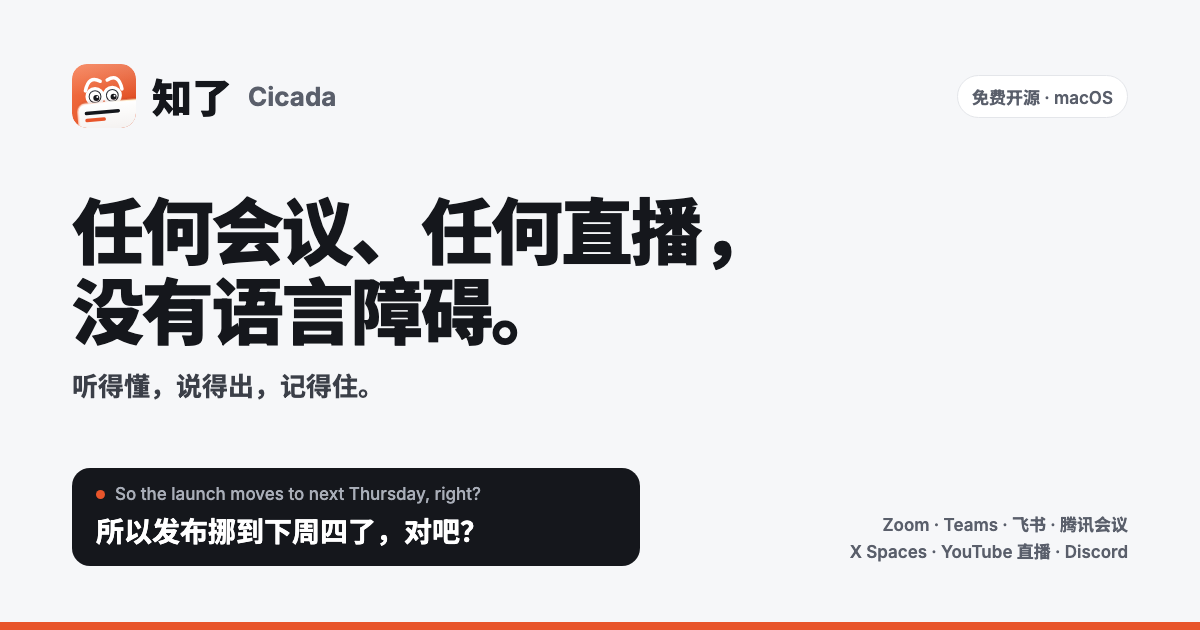
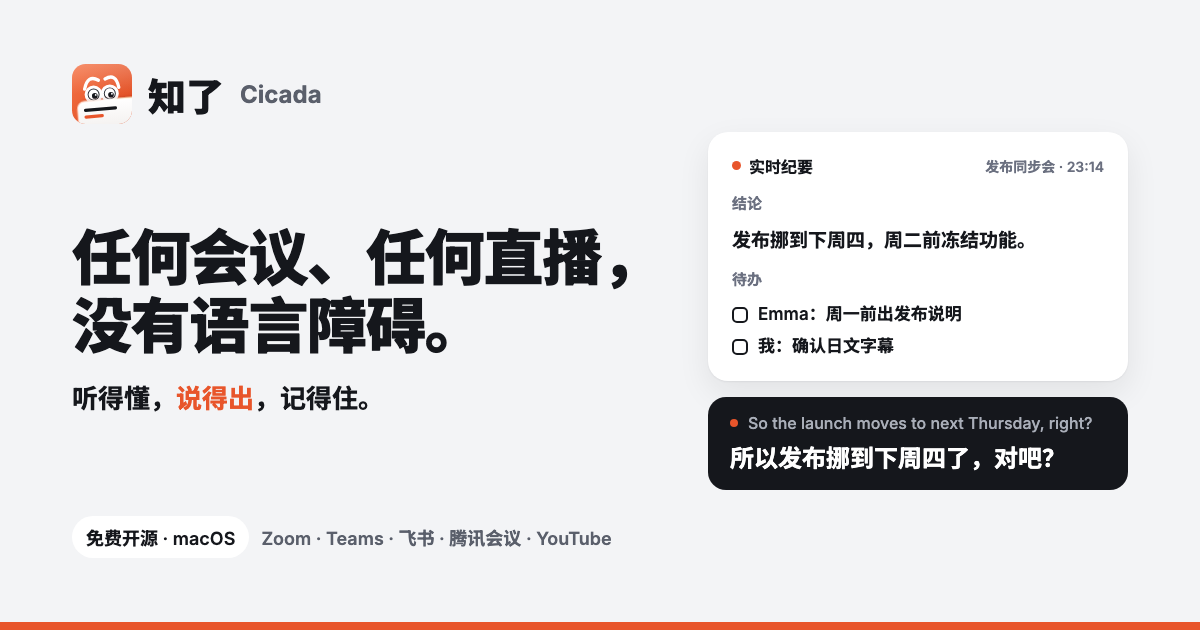
feat(site): Show the share card in the page's language when a link is shared

diff --git a/scripts/site-og.html b/scripts/site-og.html
@@ -1,37 +1,98 @@
 <!doctype html>
-<!-- The website's share card (site/og.png, 1200×630). Rendered by scripts/site-images.sh. -->
+<!-- The website's share cards, 1200×630: site-og.html?lang=zh → site/og.png, ?lang=en|ja|ko → site/og-<lang>.png.
+     Rendered by scripts/site-images.sh. The right half shows what the app does (notes + a subtitle) rather than
+     leaving room empty; its wording follows the app's own UI strings in Resources/<lang>.lproj. -->
 <html lang="zh-CN">
 <head>
 <meta charset="utf-8">
-<link rel="stylesheet" href="https://fonts.googleapis.com/css2?family=Inter:wght@500;600;700;800&amp;family=Noto+Sans+SC:wght@500;700;900&amp;display=swap">
+<link rel="stylesheet" href="https://fonts.googleapis.com/css2?family=Inter:wght@500;600;700;800&amp;family=Noto+Sans+SC:wght@500;700;900&amp;family=Noto+Sans+JP:wght@500;700;900&amp;family=Noto+Sans+KR:wght@500;700;900&amp;display=swap">
 <style>
 html, body { margin: 0; }
-.card { width: 1200px; height: 630px; box-sizing: border-box; padding: 64px 72px; background: #F6F7F9; font-family: Inter, "Noto Sans SC", "PingFang SC", sans-serif; color: #15171C; display: flex; flex-direction: column; justify-content: space-between; position: relative; overflow: hidden; }
+body { word-break: keep-all; } /* Korean wraps at spaces, not mid-word */
+.card { width: 1200px; height: 630px; box-sizing: border-box; padding: 64px 72px 72px; background: #F3F4F6; font-family: Inter, var(--cjk), sans-serif; color: #15171C; display: flex; gap: 40px; position: relative; overflow: hidden; }
+.left { flex: 1 1 0; min-width: 0; display: flex; flex-direction: column; justify-content: space-between; }
 .top { display: flex; align-items: center; gap: 16px; }
-.top img { width: 64px; height: 64px; border-radius: 15px; }
-.name { font-size: 40px; font-weight: 900; }
-.en { font-size: 26px; font-weight: 700; color: #5A5F6B; }
-.pill { margin-left: auto; padding: 8px 14px; border-radius: 999px; background: #FFFFFF; border: 1px solid #E4E6EA; font-size: 17px; font-weight: 600; color: #5A5F6B; }
-.slogan { font-size: 72px; line-height: 1.1; font-weight: 900; letter-spacing: -0.03em; }
-.sub { margin-top: 14px; font-size: 26px; font-weight: 600; color: #3B3F48; }
-.bottom { display: flex; align-items: flex-end; justify-content: space-between; gap: 32px; }
-.bar { padding: 16px 24px; border-radius: 18px; background: #15171C; color: #FFFFFF; min-width: 520px; }
-.bar .s { display: flex; align-items: center; gap: 10px; font-size: 17px; color: #A9AEB8; }
-.bar .s i { width: 9px; height: 9px; border-radius: 50%; background: #E8552B; }
-.bar .t { margin-top: 6px; font-size: 28px; font-weight: 700; }
-.apps { font-size: 17px; line-height: 1.6; color: #5A5F6B; font-weight: 600; text-align: right; }
+.top img { width: 60px; height: 60px; }
+.name { font-size: 38px; font-weight: 900; }
+.en { font-size: 24px; font-weight: 700; color: #5A5F6B; }
+.slogan { font-size: var(--slogan, 60px); line-height: 1.12; font-weight: 900; letter-spacing: -0.02em; }
+.sub { margin-top: 18px; font-size: 26px; font-weight: 700; }
+.sub b { color: #E8552B; font-weight: 700; }
+.foot { display: flex; align-items: center; gap: 12px; font-size: 18px; font-weight: 600; color: #5A5F6B; white-space: nowrap; }
+.pill { padding: 8px 14px; border-radius: 999px; background: #FFFFFF; color: #15171C; }
+.right { flex: 0 0 420px; display: flex; flex-direction: column; justify-content: center; gap: 16px; }
+.notes { background: #FFFFFF; border-radius: 20px; padding: 22px 24px; display: flex; flex-direction: column; gap: 14px; box-shadow: 0 1px 2px rgba(21,23,28,.06), 0 12px 32px rgba(21,23,28,.08); }
+.head { display: flex; align-items: center; gap: 8px; font-size: 16px; font-weight: 700; }
+.head span:last-child { margin-left: auto; font-size: 14px; font-weight: 600; color: #6B7080; }
+.dot { width: 9px; height: 9px; border-radius: 50%; background: #E8552B; flex: none; }
+.label { font-size: 15px; font-weight: 700; color: #6B7080; }
+.decision { font-size: 19px; font-weight: 700; line-height: 1.45; }
+.todos { display: flex; flex-direction: column; gap: 8px; font-size: 17px; font-weight: 600; line-height: 1.4; }
+.todos div { display: flex; gap: 10px; align-items: center; }
+.todos div::before { content: ""; width: 16px; height: 16px; box-sizing: border-box; border: 2px solid #15171C; border-radius: 5px; flex: none; }
+.bar { background: #15171C; color: #FFFFFF; border-radius: 18px; padding: 16px 22px; }
+.bar .s { display: flex; align-items: center; gap: 10px; font-size: 16px; color: #A9AEB8; }
+.bar .s .dot { width: 8px; height: 8px; }
+.bar .t { margin-top: 6px; font-size: 24px; font-weight: 700; text-wrap: balance; }
 .stripe { position: absolute; left: 0; right: 0; bottom: 0; height: 8px; background: #E8552B; }
 </style>
 </head>
 <body>
 <div class="card">
-  <div class="top"><img src="../site/icon.svg" alt=""><span class="name">知了</span><span class="en">Cicada</span><span class="pill">免费开源 · macOS</span></div>
-  <div><div class="slogan">任何会议、任何直播，<br>没有语言障碍。</div><div class="sub">听得懂，说得出，记得住。</div></div>
-  <div class="bottom">
-    <div class="bar"><div class="s"><i></i>So the launch moves to next Thursday, right?</div><div class="t">所以发布挪到下周四了，对吧？</div></div>
-    <div class="apps">Zoom · Teams · 飞书 · 腾讯会议<br>X Spaces · YouTube 直播 · Discord</div>
+  <div class="left">
+    <div class="top"><img src="../site/icon.svg" alt=""><span class="name" id="name"></span><span class="en" id="en"></span></div>
+    <div><div class="slogan" id="slogan"></div><div class="sub" id="sub"></div></div>
+    <div class="foot"><span class="pill" id="pill"></span><span id="apps"></span></div>
+  </div>
+  <div class="right">
+    <div class="notes">
+      <div class="head"><span class="dot"></span><span id="notes"></span><span id="meeting"></span></div>
+      <div class="label" id="decisionLabel"></div>
+      <div class="decision" id="decision"></div>
+      <div class="label" id="todoLabel"></div>
+      <div class="todos" id="todos"></div>
+    </div>
+    <div class="bar"><div class="s"><span class="dot"></span><span id="heard"></span></div><div class="t" id="said"></div></div>
   </div>
   <div class="stripe"></div>
 </div>
+<script>
+// sub is [before, accent, after]: 说得出 (speaking into the room) is the part only Cicada does.
+const CARDS = {
+  zh: { lang: "zh-CN", cjk: "'Noto Sans SC', 'PingFang SC'", name: "知了", en: "Cicada",
+    slogan: "任何会议、任何直播，<br>没有语言障碍。", sub: ["听得懂，", "说得出", "，记得住。"],
+    pill: "免费开源 · macOS", apps: "Zoom · Teams · 飞书 · 腾讯会议 · YouTube",
+    notes: "实时纪要", meeting: "发布同步会 · 23:14", decisionLabel: "结论", decision: "发布挪到下周四，周二前冻结功能。",
+    todoLabel: "待办", todos: ["Emma：周一前出发布说明", "我：确认日文字幕"],
+    heard: "So the launch moves to next Thursday, right?", said: "所以发布挪到下周四了，对吧？" },
+  en: { lang: "en", cjk: "'Noto Sans SC'", name: "Cicada", en: "", slogan: "Any call, any stream,<br>no language barrier.", size: "54px",
+    sub: ["Understand. ", "Speak up.", " Remember."],
+    pill: "Free · Open source · macOS", apps: "Zoom · Teams · Meet · YouTube",
+    notes: "Live notes", meeting: "Launch sync · 23:14", decisionLabel: "Conclusions", decision: "Launch moves to next Thursday; feature freeze by Tuesday.",
+    todoLabel: "To-dos", todos: ["Lin: release notes by Monday", "Me: check the Japanese subtitles"],
+    heard: "所以发布挪到下周四了，对吧？", said: "So the launch moves to next Thursday?" },
+  ja: { lang: "ja", cjk: "'Noto Sans JP'", name: "Cicada", en: "", slogan: "どんな会議も、<br>どんな配信も、<br>言葉の壁なく。", size: "54px",
+    sub: ["聞き取り、", "話し、", "記録する。"],
+    pill: "無料・オープンソース · macOS", apps: "Zoom · Teams · Meet · YouTube",
+    notes: "ライブ議事メモ", meeting: "ローンチ定例 · 23:14", decisionLabel: "結論", decision: "ローンチは来週木曜に延期、火曜に機能凍結。",
+    todoLabel: "ToDo", todos: ["Emma：月曜までにリリースノート", "自分：字幕の訳語を確認"],
+    heard: "So the launch moves to next Thursday, right?", said: "来週木曜に延期ですね？" },
+  ko: { lang: "ko", cjk: "'Noto Sans KR'", name: "Cicada", en: "", slogan: "어떤 회의도,<br>어떤 방송도<br>언어 장벽 없이", size: "54px",
+    sub: ["알아듣고, ", "말하고,", " 기록합니다"],
+    pill: "무료 오픈 소스 · macOS", apps: "Zoom · Teams · Meet · YouTube",
+    notes: "실시간 회의록", meeting: "출시 회의 · 23:14", decisionLabel: "결론", decision: "출시는 다음 주 목요일, 화요일까지 기능 동결.",
+    todoLabel: "할 일", todos: ["Emma: 월요일까지 릴리스 노트", "나: 자막 용어 확인"],
+    heard: "So the launch moves to next Thursday, right?", said: "출시가 다음 주 목요일로 미뤄지죠?" },
+};
+const c = CARDS[new URLSearchParams(location.search).get("lang")] || CARDS.zh;
+const $ = id => document.getElementById(id);
+document.documentElement.lang = c.lang;
+document.body.style.setProperty("--cjk", c.cjk);
+if (c.size) document.body.style.setProperty("--slogan", c.size);
+for (const k of ["name", "en", "pill", "apps", "notes", "meeting", "decisionLabel", "decision", "todoLabel", "heard", "said"]) $(k).textContent = c[k];
+$("slogan").innerHTML = c.slogan;
+$("sub").append(c.sub[0], Object.assign(document.createElement("b"), { textContent: c.sub[1] }), c.sub[2]);
+for (const t of c.todos) $("todos").appendChild(Object.assign(document.createElement("div"), { textContent: t }));
+</script>
 </body>
 </html>

diff --git a/site/start.html b/site/start.html
@@ -15,7 +15,10 @@
 <meta property="og:title" content="{{t.start_h1}}">
 <meta property="og:description" content="{{t.start_desc}}">
 <meta property="og:url" content="{{CANONICAL}}">
-<meta property="og:image" content="{{SITE}}og.png">
+<meta property="og:image" content="{{OG_IMAGE}}">
+<meta property="og:image:width" content="1200">
+<meta property="og:image:height" content="630">
+<meta property="og:image:alt" content="{{t.og_title}}">
 <meta property="og:locale" content="{{t.og_locale}}">
 <meta name="twitter:card" content="summary_large_image">
 <meta name="twitter:creator" content="@wquguru">

diff --git a/site/index.html b/site/index.html
@@ -16,7 +16,10 @@
 <meta property="og:title" content="{{t.og_title}}">
 <meta property="og:description" content="{{t.og_desc}}">
 <meta property="og:url" content="{{CANONICAL}}">
-<meta property="og:image" content="{{SITE}}og.png">
+<meta property="og:image" content="{{OG_IMAGE}}">
+<meta property="og:image:width" content="1200">
+<meta property="og:image:height" content="630">
+<meta property="og:image:alt" content="{{t.og_title}}">
 <meta property="og:locale" content="{{t.og_locale}}">
 <meta name="twitter:card" content="summary_large_image">
 <meta name="twitter:creator" content="@wquguru">

diff --git a/site/changelog.html b/site/changelog.html
@@ -16,6 +16,8 @@
 <meta property="og:description" content="最新版本 {{LATEST_VERSION}}：{{LATEST_TITLE}}">
 <meta property="og:url" content="{{SITE}}changelog/">
 <meta property="og:image" content="{{SITE}}og.png">
+<meta property="og:image:width" content="1200">
+<meta property="og:image:height" content="630">
 <meta property="og:locale" content="zh_CN">
 <meta name="twitter:card" content="summary_large_image">
 <meta name="twitter:creator" content="@wquguru">

diff --git a/scripts/site.py b/scripts/site.py
@@ -29,7 +29,7 @@ REPO = "https://github.com/wquguru/cicada"
 DOWNLOAD = REPO + "/releases/latest"
 # The author on X: the app is not notarized yet, so a real person to ask helps people trust the first launch.
 X = "https://x.com/wquguru"
-STATIC = ["style.css", "icon.svg", "icon.png", "og.png", "img", "audio"]
+STATIC = ["style.css", "icon.svg", "icon.png", "og.png", "og-en.png", "og-ja.png", "og-ko.png", "img", "audio"]
 # The home page's meeting with sound, in the language its reader listens to (the English page's is
 # Chinese): file, length in seconds, and who talks when as (person, start, end), one turn per
 # subtitle. Both clips come from scripts/make-sample.sh; the English one is the app's onboarding
@@ -178,6 +178,7 @@ def main():
         if alternates:
             hreflang += f'\n<link rel="alternate" hreflang="x-default" href="{SITE}en/{kind}">'
         v = dict(common, ROOT=root, HOME=root + prefix, LANG=code,
+                 OG_IMAGE=SITE + ("og.png" if code == "zh" else f"og-{code}.png"),  # share card in the page's language (scripts/site-og.html)
                  CHANGELOG=(root + "changelog/") if code == "zh" else REPO + "/releases",
                  START_CURRENT=' aria-current="page"' if current == "start" else "",
                  CANONICAL=SITE + rel, HREFLANG=hreflang, LANG_LINKS=links, LANG_LINKS_FOOT=foot_links,
